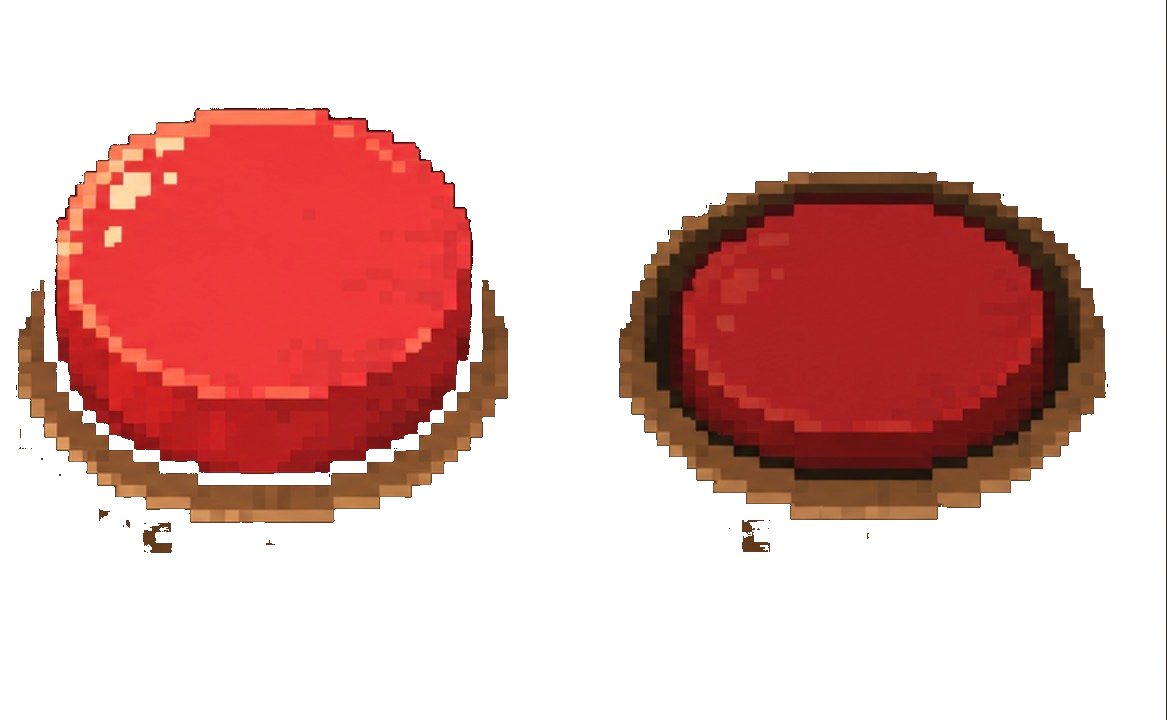
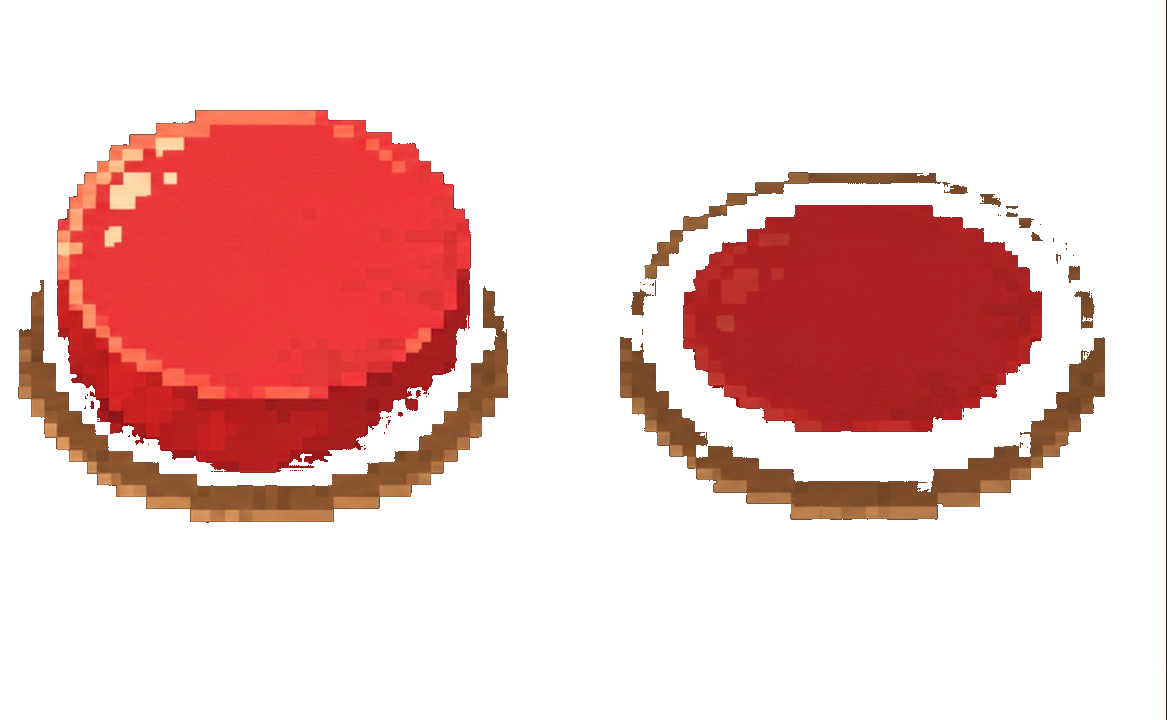
Polish: fat keyboard, aligned screen, button on desk, bouncy UI
- Fat cozy ivory keycaps with chunky 3D depth + glowing next-key
  guide, matching the pixel-art style.
- Align the on-monitor code to the actual CRT glass (measured from
  desk.png).
- Re-key the red button (clean edges, no halo) and move it onto the
  desk to the RIGHT of the monitor; press-hand reaches toward it.
- Bouncy tweens: spring-in for modals/itch/cards, button squash,
  hover pops; a walking dev animation on the title screen.
- More handmade pixel UI: custom pixel players icon in the itch
  header, framed upgrade icons.

Claude-Session: https://claude.ai/code/session_01FUTbySxrTyvWDMxpMLcdoD

diff --git a/js/game.js b/js/game.js
@@ -149,7 +149,7 @@
     G.state = "itch";
     var html = '<div class="itch">' +
       '<div class="itch-top"><span class="itch-logo">itch<span>.io</span></span>' +
-      '<span class="itch-players">👥 <b id="itch-count">' + fmt(G.players) + '</b> players</span></div>' +
+      '<span class="itch-players"><canvas id="pplic" width="22" height="22"></canvas> <b id="itch-count">' + fmt(G.players) + '</b> players</span></div>' +
       '<div class="itch-card">' +
       '<div class="itch-thumb" id="itch-thumb"></div>' +
       '<div class="itch-meta"><div class="itch-title">My Game #' + G.shipped + '</div>' +
@@ -162,6 +162,8 @@
     var thumb = document.getElementById("itch-thumb");
     var tc = document.createElement("canvas"); tc.width = 96; tc.height = 72; var tx = tc.getContext("2d");
     R.deskScene(tx); thumb.appendChild(tc);
+    // pixel players icon in header
+    var pplic = document.getElementById("pplic"); if (pplic) R.peopleIcon(pplic.getContext("2d"), 11, 12, 16);
     renderUpgrades();
     document.getElementById("ov-btn").onclick = function () { A.sfx.ui(); startCode(); };
   }
@@ -174,7 +176,7 @@
       var div = document.createElement("div"); div.className = "up-card" + (afford ? "" : " broke");
       var cv = document.createElement("canvas"); cv.width = 40; cv.height = 40; var ux = cv.getContext("2d"); ux.imageSmoothingEnabled = false;
       R.upgradeIcon(ux, u.icon, 20, 20, 26); div.appendChild(cv);
-      var nm = document.createElement("div"); nm.className = "up-name"; nm.textContent = u.name + (owned ? " ·" + owned : ""); div.appendChild(nm);
+      var nm = document.createElement("div"); nm.className = "up-name"; nm.textContent = u.name + (owned ? "  Lv" + owned : ""); div.appendChild(nm);
       var ds = document.createElement("div"); ds.className = "up-desc"; ds.textContent = u.desc; div.appendChild(ds);
       var co = document.createElement("div"); co.className = "up-cost"; co.textContent = "👥 " + fmt(cost); div.appendChild(co);
       div.onclick = function () { buyUpgrade(u); };
@@ -198,6 +200,7 @@
       '<p class="lead">Type the code. Ship the game. Watch the players roll in.</p>' +
       '<p>Follow the glowing keys and <b>type fast</b> — the clock is ticking. Then <b>mash the red button</b> to ship it, and spend your players on <b>upgrades</b>.</p>' +
       '<button class="big-btn" id="ov-btn">▶ START CODING</button></div>');
+    els.overlay.classList.add("title-mode");
     document.getElementById("ov-btn").onclick = function () { A.sfx.ui(); G.players = 0; G.shipped = 0; G.upg = { autocomplete: 0, marketing: 0, viral: 0, coffee: 0 }; startCode(); };
   }
 
@@ -252,23 +255,27 @@
       bigClock(t);
       hud();
     } else if (G.state === "ship") {
-      // monitor shows compiling
-      R.monitorCode(ctx, "> COMPILING BUILD...", Math.min(("> COMPILING BUILD...").length, Math.floor(t * 10) % 22), t, {});
-      // build bar
-      var bx = W * 0.3, bw = W * 0.4, by = H * 0.30;
-      R.fillRR(ctx, bx - 2, by - 2, bw + 4, 12, 3, "#000");
-      R.fillRR(ctx, bx, by, bw, 8, 2, "#241812");
-      R.fillRR(ctx, bx, by, bw * (G.build / GAME.shipTarget), 8, 2, "#5fe0a0");
-      ctx.fillStyle = "#ffd24d"; ctx.font = "bold 12px 'Courier New',monospace"; ctx.textAlign = "center";
-      ctx.fillText("MASH  SPACE  TO  SHIP!", W / 2, by - 10);
-      // red button
-      R.runButton(ctx, W / 2, H * 0.5, H * 0.34, G.btn > 0, t);
-      // press hand
-      R.handsSprite(ctx, 1, W / 2, t, { scale: 0.55, tap: (G.btn > 0 ? 26 : 0), bobAmt: 2, fast: G.build > 0 });
+      // monitor keeps showing the finished code (aligned to the CRT)
+      R.monitorCode(ctx, G.target, G.target.length, t, {});
+      // red button sits on the desk to the RIGHT of the monitor
+      var bx = W * 0.80, by = H * 0.60, squash = G.btn > 0 ? 1 : 0;
+      // build bar above the button
+      var barW = 120, barX = bx - barW / 2, barY = by - H * 0.30;
+      ctx.fillStyle = "#ffca55"; ctx.font = "bold 11px 'Courier New',monospace"; ctx.textAlign = "center";
+      var pulse = 1 + 0.06 * Math.sin(t * 14);
+      ctx.save(); ctx.translate(bx, barY - 14); ctx.scale(pulse, pulse); ctx.fillText("MASH SPACE!", 0, 0); ctx.restore();
+      R.fillRR(ctx, barX - 2, barY - 2, barW + 4, 12, 3, "#000");
+      R.fillRR(ctx, barX, barY, barW, 8, 2, "#241812");
+      R.fillRR(ctx, barX, barY, barW * (G.build / GAME.shipTarget), 8, 2, "#5fe0a0");
+      // the button (squashes when pressed)
+      R.runButton(ctx, bx, by, H * (0.30 - squash * 0.02), G.btn > 0, t);
+      // press hand reaches in from the bottom-right toward the button
+      R.handsSprite(ctx, 1, bx - 6, t, { scale: 0.6, tap: (G.btn > 0 ? 30 : 6), bobAmt: 2, fast: G.build > 0 });
       hud();
     } else {
-      // title / itch: dim desk behind the overlay + idle hands
-      R.handsSprite(ctx, 0, W / 2, t, { scale: 0.5, bobAmt: 3 });
+      // title: a bouncy walking dev along the desk; itch: idle hands
+      if (G.state === "title") walker(t);
+      else R.handsSprite(ctx, 0, W / 2, t, { scale: 0.5, bobAmt: 3 });
     }
 
     // pops
@@ -309,6 +316,16 @@
 
   function pop(x, y, txt, color, size) { G.pops.push({ x: x, y: y, txt: txt, color: color, size: size || 14, life: 0.9, vy: -30 }); }
 
+  // bouncy little dev walking across the desk edge (title screen)
+  function walker(t) {
+    var speed = 52, period = W + 140, x = ((t * speed) % period) - 70, feetY = H * 0.955;
+    var hop = Math.abs(Math.sin(t * 6)), bob = -hop * 8;
+    // shadow (shrinks on the up-beat)
+    ctx.save(); ctx.globalAlpha = 0.28 - hop * 0.14; ctx.beginPath(); ctx.ellipse(x, feetY, 16 - hop * 4, 4.5, 0, 0, 6.28); ctx.fillStyle = "#000"; ctx.fill(); ctx.restore();
+    var frame = (Math.floor(t * 6) % 2) ? "walkB" : "walkA";
+    R.playerSprite(ctx, frame, x, feetY + bob, H * 0.34, true, t, "");
+  }
+
   // =========================================================
   //  helpers
   // =========================================================
@@ -319,7 +336,7 @@
     return String(n);
   }
   function overlay(html) { els.overlay.innerHTML = html; els.overlay.classList.add("show"); }
-  function hideOverlay() { els.overlay.classList.remove("show"); els.overlay.innerHTML = ""; }
+  function hideOverlay() { els.overlay.classList.remove("show", "title-mode"); els.overlay.innerHTML = ""; }
 
   if (document.readyState === "loading") document.addEventListener("DOMContentLoaded", init); else init();
   global.Game = G;

diff --git a/js/render.js b/js/render.js
@@ -737,11 +737,11 @@
     if (_kb) return _kb;
     var reg = { x: L.keyboard.x * W, y: L.keyboard.y * H, w: L.keyboard.w * W, h: L.keyboard.h * H };
     var rows = global.JamData.KEYROWS, keys = [];
-    var gap = 2, kh = reg.h / rows.length - gap;
+    var gap = 3, kh = reg.h / rows.length - gap;
     for (var r = 0; r < rows.length; r++) {
       var y = reg.y + r * (kh + gap);
-      if (rows[r] === "_SPACE_") { var sw = reg.w * 0.5; keys.push({ label: "SPACE", char: " ", x: reg.x + (reg.w - sw) / 2, y: y, w: sw, h: kh }); continue; }
-      var chars = rows[r], n = chars.length, kw = reg.w / 10.5 - gap, rowW = n * (kw + gap) - gap, sx = reg.x + (reg.w - rowW) / 2;
+      if (rows[r] === "_SPACE_") { var sw = reg.w * 0.52; keys.push({ label: "SPACE", char: " ", x: reg.x + (reg.w - sw) / 2, y: y, w: sw, h: kh }); continue; }
+      var chars = rows[r], n = chars.length, kw = reg.w / 10.4 - gap, rowW = n * (kw + gap) - gap, sx = reg.x + (reg.w - rowW) / 2;
       for (var k = 0; k < n; k++) keys.push({ label: chars[k], char: chars[k], x: sx + k * (kw + gap), y: y, w: kw, h: kh });
     }
     _kb = { region: reg, keys: keys };
@@ -754,30 +754,40 @@
     for (var i = 0; i < keys.length; i++) if (keys[i].char === up || keys[i].char === ch) return keys[i];
     return null;
   }
+  // Fat, cozy ivory keycaps with chunky 3D depth.
   function keyboard(ctx, opts) {
     opts = opts || {};
-    var kb = keyboardLayout(), nextK = opts.next ? keyForChar(opts.next) : null, pressed = opts.pressed || {};
-    // base plate
+    var kb = keyboardLayout(), nextK = opts.next ? keyForChar(opts.next) : null, pressed = opts.pressed || {}, t = opts.t || 0;
     var reg = kb.region;
-    fillRR(ctx, reg.x - 6, reg.y - 6, reg.w + 12, reg.h + 14, 6, "#241812");
-    fillRR(ctx, reg.x - 6, reg.y - 6, reg.w + 12, 4, 6, "#3a2a1e");
+    // wooden/cream deck tray
+    fillRR(ctx, reg.x - 10, reg.y - 9, reg.w + 20, reg.h + 20, 8, "#2a1d13");
+    fillRR(ctx, reg.x - 7, reg.y - 7, reg.w + 14, reg.h + 15, 7, "#6a5136");
+    fillRR(ctx, reg.x - 7, reg.y - 7, reg.w + 14, 5, 7, "#8a6f4a");
+    var depth = 5;
     kb.keys.forEach(function (key) {
-      var down = pressed[key.char] > 0;
+      var down = pressed[key.char] > 0 ? depth - 1 : 0;
       var isNext = nextK && nextK === key;
-      var top = down ? key.y + 2 : key.y;
-      // key side (depth)
-      fillRR(ctx, key.x, key.y + 2, key.w, key.h, 3, "#120b08");
-      // key cap
-      var capC = isNext ? "#3a3320" : "#2f261d";
-      var g = ctx.createLinearGradient(0, top, 0, top + key.h);
-      g.addColorStop(0, shade(capC, 0.5)); g.addColorStop(1, shade(capC, -0.2));
-      ctx.fillStyle = g; rr(ctx, key.x, top, key.w, key.h - (down ? 0 : 2), 3); ctx.fill();
-      // top highlight
-      ctx.globalAlpha = 0.4; px(ctx, key.x + 2, top + 2, key.w - 4, 2, "#efe0c8"); ctx.globalAlpha = 1;
-      if (isNext) { ctx.strokeStyle = "#ffd24d"; ctx.lineWidth = 1.5; rr(ctx, key.x + 0.5, top + 0.5, key.w - 1, key.h - 2, 3); ctx.stroke(); ctx.globalAlpha = 0.25 + 0.15 * Math.sin((opts.t || 0) * 8); ctx.fillStyle = "#ffd24d"; rr(ctx, key.x, top, key.w, key.h - 2, 3); ctx.fill(); ctx.globalAlpha = 1; }
-      // label
-      ctx.fillStyle = isNext ? "#ffe9a8" : "#b8a48e"; ctx.font = "6px 'Courier New',monospace"; ctx.textAlign = "center"; ctx.textBaseline = "middle";
-      ctx.fillText(key.label === "SPACE" ? "" : key.label, key.x + key.w / 2, top + key.h / 2);
+      var kx = key.x, ky = key.y, kw = key.w, kh = key.h - depth;
+      // base / side (the chunky depth block)
+      fillRR(ctx, kx, ky + kh - 2, kw, depth + 4, 4, "#5a4026");
+      fillRR(ctx, kx, ky + kh + depth - 2 - down, kw, 3, 3, "#3a2818");
+      // keycap top (ivory), depresses when down
+      var topY = ky + down;
+      var capTop = isNext ? "#ffe6a0" : "#f0e6cf";
+      var capBot = isNext ? "#e0b24d" : "#c9b78e";
+      var g = ctx.createLinearGradient(0, topY, 0, topY + kh);
+      g.addColorStop(0, capTop); g.addColorStop(1, capBot);
+      ctx.fillStyle = g; rr(ctx, kx, topY, kw, kh, 4); ctx.fill();
+      // dish highlight + inner shade
+      ctx.globalAlpha = 0.55; fillRR(ctx, kx + 2, topY + 2, kw - 4, kh * 0.34, 3, "#fffaf0"); ctx.globalAlpha = 1;
+      ctx.strokeStyle = shade(capBot, -0.25); ctx.lineWidth = 1; rr(ctx, kx + 0.5, topY + 0.5, kw - 1, kh - 1, 4); ctx.stroke();
+      if (isNext) {
+        ctx.strokeStyle = "#ff9a3d"; ctx.lineWidth = 2; rr(ctx, kx - 0.5, topY - 0.5, kw + 1, kh + 1, 4); ctx.stroke();
+        ctx.save(); ctx.globalAlpha = 0.25 + 0.18 * Math.sin(t * 8); circle(ctx, kx + kw / 2, topY + kh / 2, kw * 0.6, "#ffca55"); ctx.restore();
+      }
+      // label (dark, engraved look)
+      ctx.fillStyle = isNext ? "#7a4a12" : "#7c6a4a"; ctx.font = "bold 7px 'Courier New',monospace"; ctx.textAlign = "center"; ctx.textBaseline = "middle";
+      ctx.fillText(key.label === "SPACE" ? "___" : key.label, kx + kw / 2, topY + kh / 2 + 1);
     });
     ctx.textAlign = "left"; ctx.textBaseline = "alphabetic";
   }
@@ -837,6 +847,18 @@
     ctx.restore();
   }
 
+  // little pixel "players" icon (two folks)
+  function peopleIcon(ctx, cx, cy, s) {
+    var folks = [[-s * 0.26, "#6ee0ff"], [s * 0.26, "#ffca55"]];
+    folks.forEach(function (f) {
+      var x = cx + f[0];
+      fillRR(ctx, x - s * 0.22, cy - s * 0.02, s * 0.44, s * 0.36, s * 0.12, f[1]);
+      circle(ctx, x, cy - s * 0.22, s * 0.18, f[1]);
+      circle(ctx, x, cy - s * 0.22, s * 0.18, f[1]);
+      ctx.globalAlpha = 0.35; fillRR(ctx, x - s * 0.14, cy, s * 0.1, s * 0.3, s * 0.05, "#000"); ctx.globalAlpha = 1;
+    });
+  }
+
   function vignette(ctx) {
     var g = ctx.createRadialGradient(W / 2, H * 0.5, H * 0.35, W / 2, H * 0.5, H * 0.85);
     g.addColorStop(0, "rgba(0,0,0,0)"); g.addColorStop(1, "rgba(0,0,0,0.45)");
@@ -852,6 +874,6 @@
     roomScene: roomScene, playerSprite: playerSprite, drinkSprite: drinkSprite, packSprite: packSprite, packRip: packRip,
     screenRect: screenRect, deskScene: deskScene, monitorCode: monitorCode,
     keyboardLayout: keyboardLayout, keyForChar: keyForChar, keyboard: keyboard,
-    handsSprite: handsSprite, runButton: runButton, upgradeIcon: upgradeIcon, vignette: vignette
+    handsSprite: handsSprite, runButton: runButton, upgradeIcon: upgradeIcon, peopleIcon: peopleIcon, vignette: vignette
   };
 })(window);

diff --git a/css/style.css b/css/style.css
@@ -532,3 +532,33 @@ body{
 
 .itch .big-btn{ margin-top:14px; width:100%; }
 @media (max-width:520px){ .up-grid{ grid-template-columns:1fr; } }
+
+/* =========================================================
+   v6 — bouncy tweens + more handmade pixel UI
+   ========================================================= */
+@keyframes bpop{ 0%{ transform:scale(.72); opacity:0; } 62%{ transform:scale(1.05); opacity:1; } 100%{ transform:scale(1); } }
+@keyframes bslide{ 0%{ transform:translateY(14px) scale(.9); opacity:0; } 65%{ transform:translateY(-3px) scale(1.02); opacity:1; } 100%{ transform:translateY(0) scale(1); } }
+
+.modal, .itch{ animation:bpop .34s cubic-bezier(.34,1.56,.64,1) both; }
+.up-card{ animation:bslide .3s cubic-bezier(.34,1.56,.64,1) both; }
+.up-card:nth-child(2){ animation-delay:.04s; } .up-card:nth-child(3){ animation-delay:.08s; } .up-card:nth-child(4){ animation-delay:.12s; }
+.up-card:hover{ transform:translateY(-5px) scale(1.03); }
+.up-card:active{ transform:translateY(-1px) scale(.99); }
+.drink, .pcard, .card{ animation:bslide .28s cubic-bezier(.34,1.56,.64,1) both; }
+
+.big-btn{ transition:transform .1s cubic-bezier(.34,1.7,.64,1); }
+.big-btn:hover{ transform:translateY(-2px) scale(1.02); }
+.big-btn:active{ transform:translateY(2px) scale(.98); }
+
+/* pixel players icon in the itch header */
+.itch-players{ display:flex; align-items:center; gap:6px; }
+.itch-players canvas{ image-rendering:pixelated; width:22px; height:22px; }
+
+/* handmade pixel frame accents */
+.itch, .modal{ image-rendering:pixelated; }
+.itch-card{ box-shadow:inset 1px 1px 0 rgba(255,236,200,.06), inset -2px -2px 0 rgba(0,0,0,.4); }
+.up-card{ border-radius:0; }
+.up-card canvas{ background:#1a120c; border:2px solid #4a3626; }
+
+/* title screen: lift the dialog so the walking dev shows on the desk below */
+.overlay.title-mode{ align-items:flex-start; padding-top:4vh; }

diff --git a/js/data.js b/js/data.js
@@ -15,10 +15,10 @@
   // ---- shared canvas layout (4:3 to match the desk scene) ----
   var LAYOUT = {
     W: 512, H: 384,
-    // monitor screen region on the desk image (normalized 0..1)
-    screen: { x: 0.255, y: 0.135, w: 0.375, h: 0.40 },
-    // on-screen keyboard region (normalized)
-    keyboard: { x: 0.05, y: 0.70, w: 0.90, h: 0.20 }
+    // monitor screen region on desk.png (normalized) — fits inside the CRT glass
+    screen: { x: 0.29, y: 0.20, w: 0.278, h: 0.325 },
+    // on-screen keyboard region (normalized) — taller for fat keycaps
+    keyboard: { x: 0.045, y: 0.665, w: 0.91, h: 0.245 }
   };
 
   // Interactive keyboard rows (labels). SPACE handled specially.
